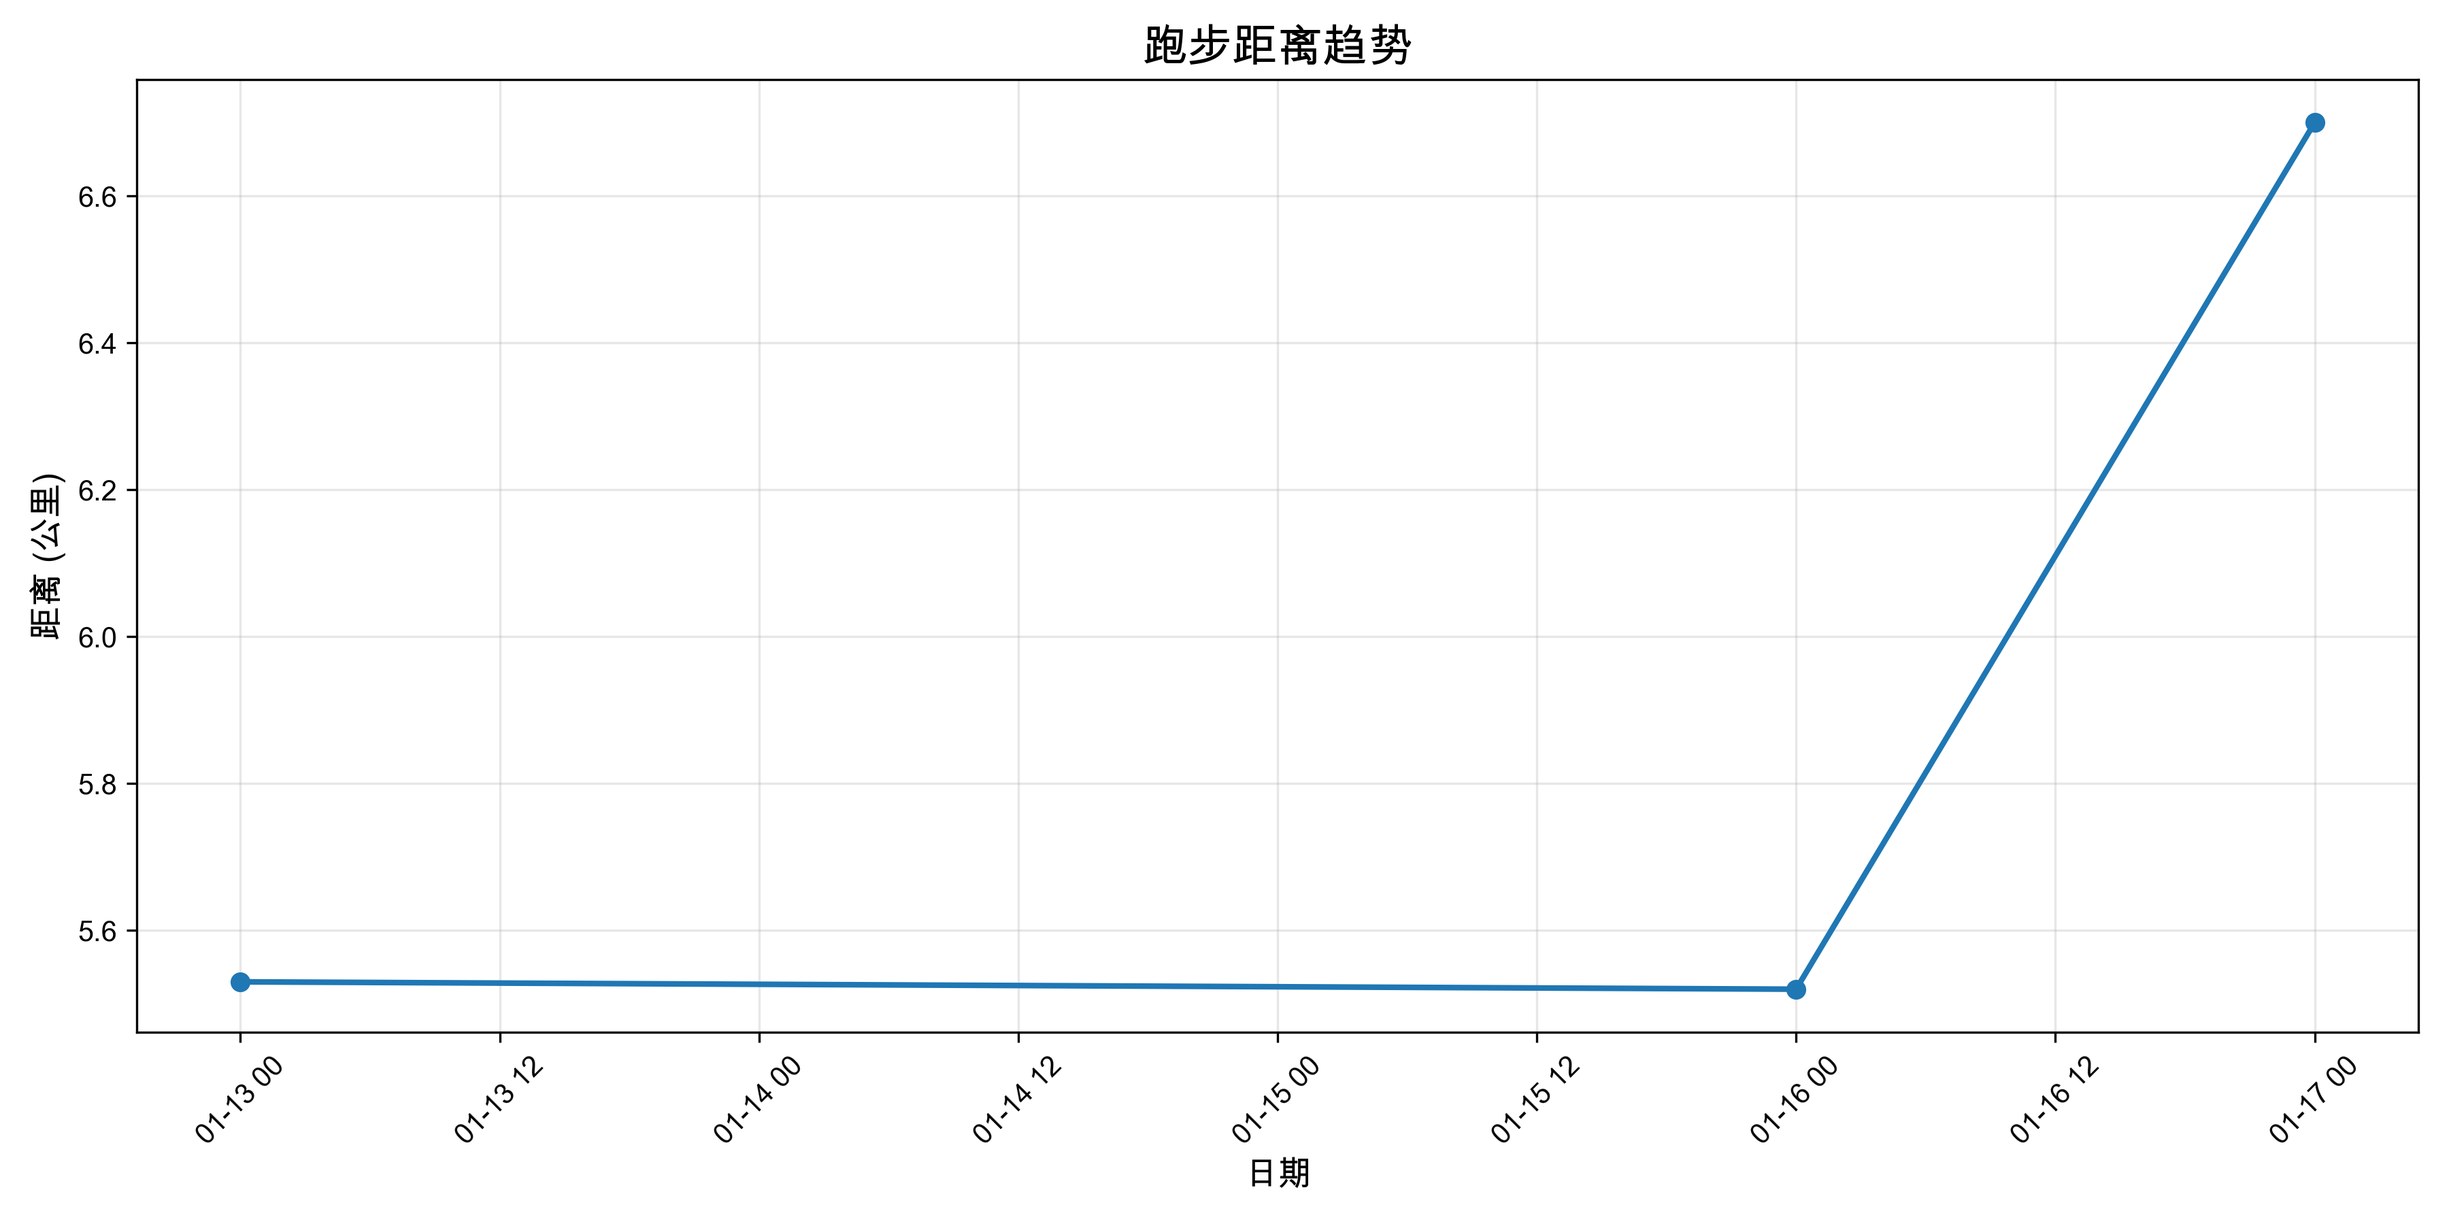
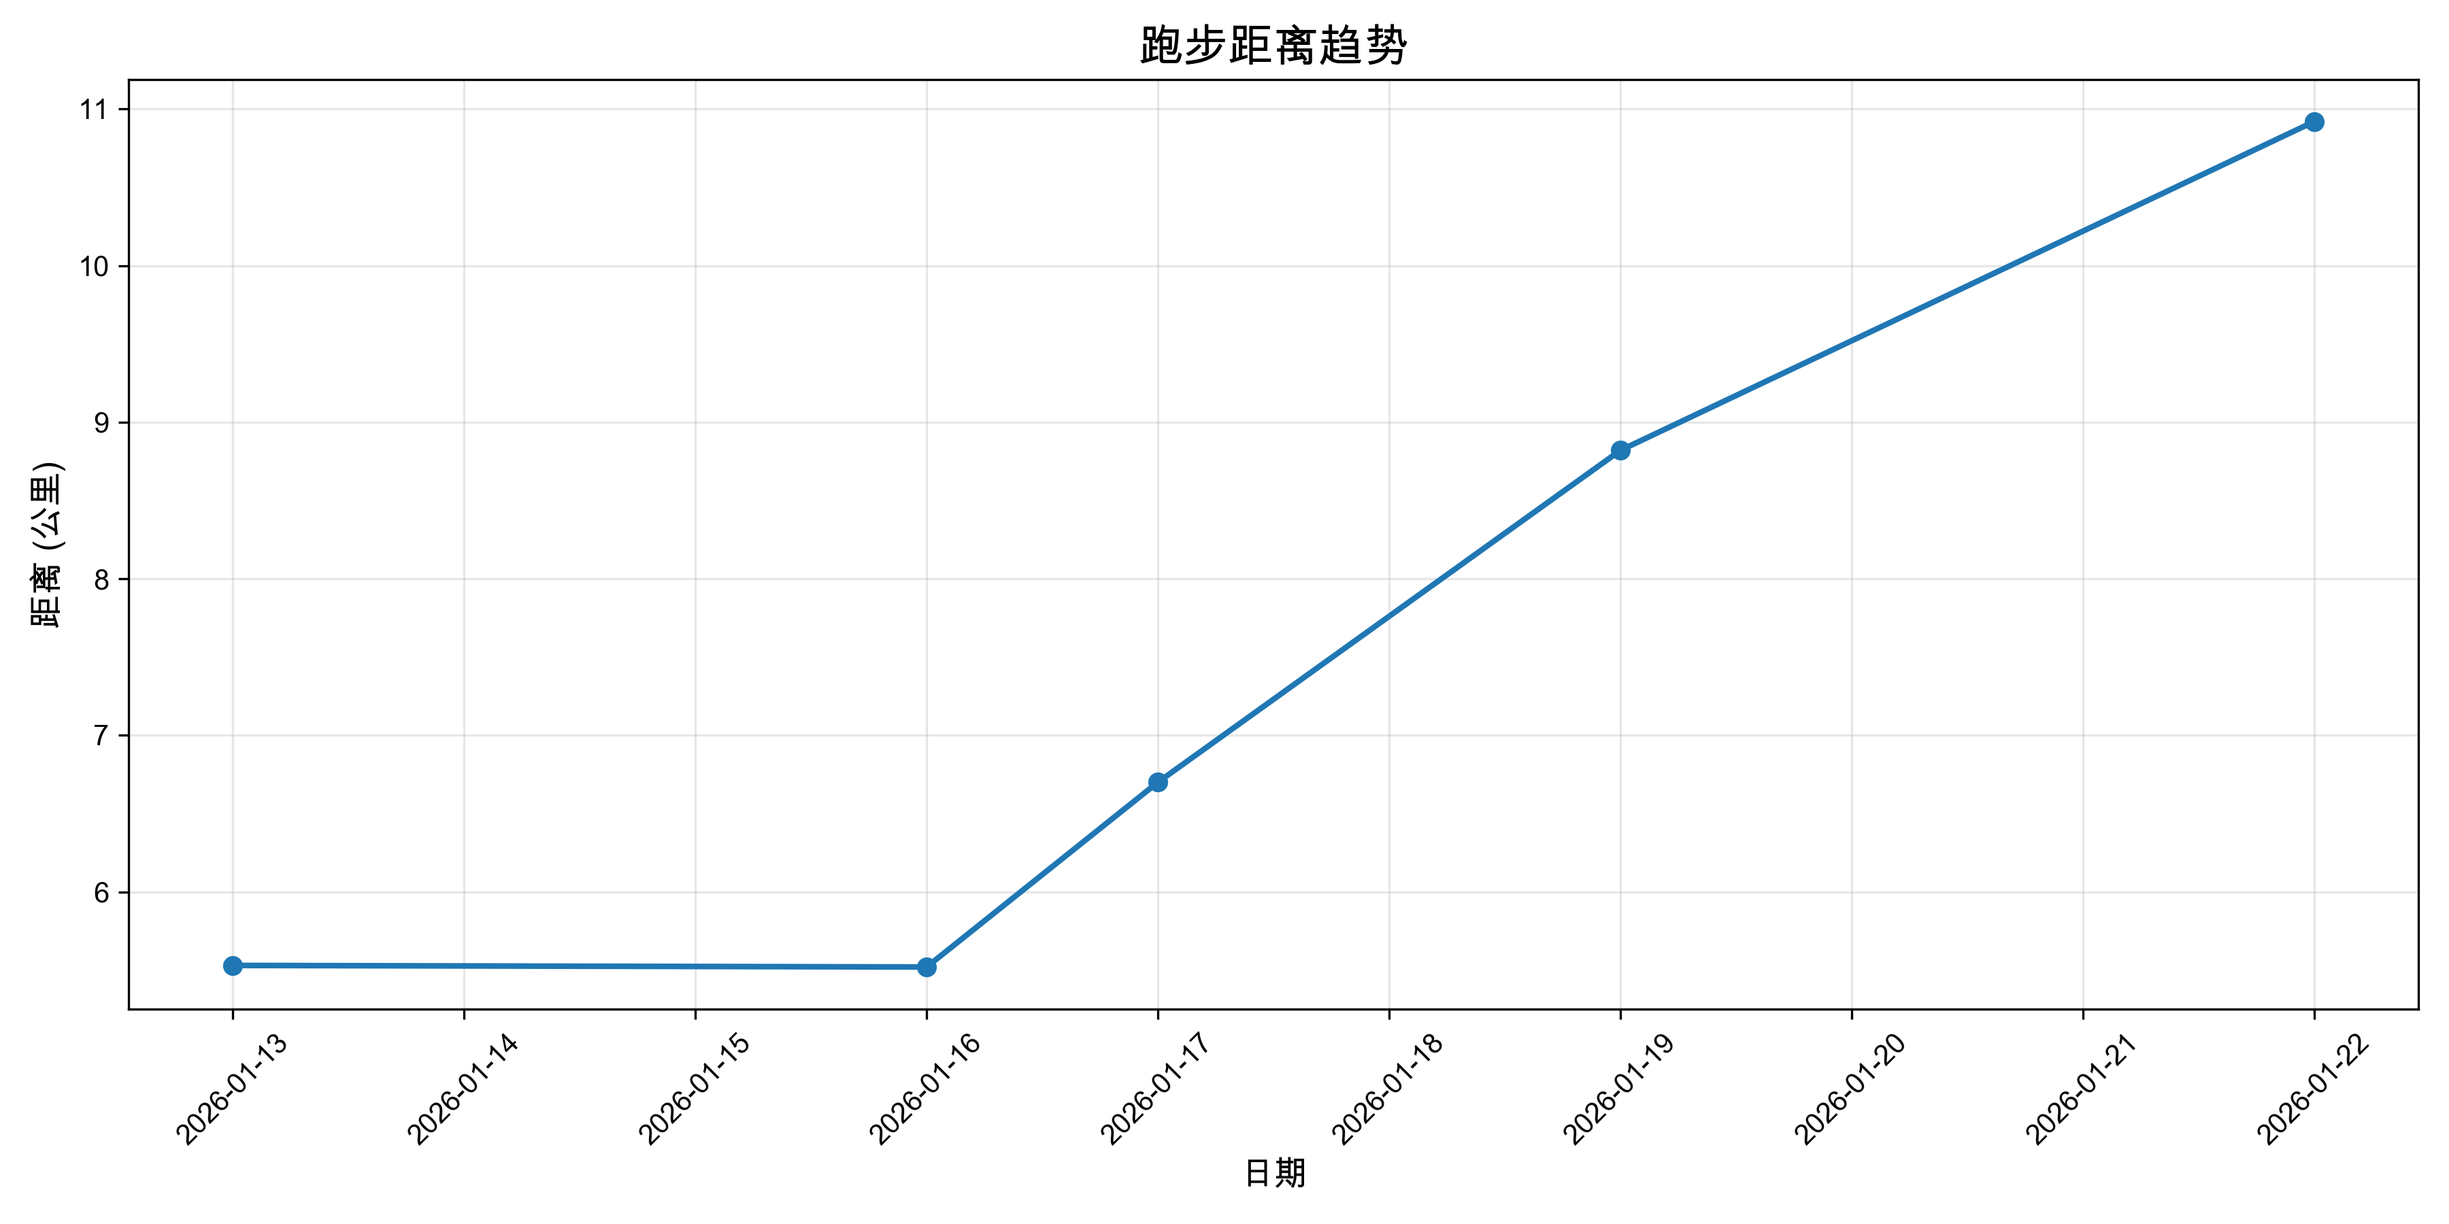
feat：更新1月22日跑步记录

diff --git a/training-plans/2026-01-plan.md b/training-plans/2026-01-plan.md
@@ -127,9 +127,10 @@
 - **详细数据**: 消耗657卡，步频159，总步数10704，步幅0.82m
 - **饮食**: 中午赛百味，跑步前1根香蕉和巧克力
 
-**阶段总结（截至 1/19）**:
-- **进步确认**: 平均心率从 173→158→155→153，已稳定进入目标区间（145-155）
-- **有效策略**: 放慢配速 + 更慢的前 1 公里热身，能显著降低心率漂移
+**阶段总结（截至 1/22）**:
+- **进步确认**: 跑步机平均心率从 173→158→155→153，已稳定进入目标区间（145-155）
+- **户外提醒**: 1/22 户外 10.92km 平均心率 160，说明户外需要更慢热身/更慢配速或跑走结合来守住区间
+- **有效策略**: 放慢配速 + 更慢的前 1-2 公里热身，能显著降低心率漂移
 - **本周重点**: 巩固“心率稳定”而不是追求配速；避免连续两天长距离
 - **执行要点**:
   - 跑步机建议坡度 1%（有余力再到 2%），以更贴近户外
@@ -145,15 +146,28 @@
 - **目标**: 维持恢复节奏，降低疲劳累积
 - **实际**: 待完成
 
-### 周四 1/22
+### 周四 1/22 ✅ 已完成
 - **计划**: 轻松跑 5km，心率145-155，配速7:20-7:40
-- **每公里目标**:
-  - 第1公里：7:50-8:10（热身，心率缓升）
-  - 第2公里：7:35-7:50
-  - 第3公里：7:25-7:40
-  - 第4公里：7:20-7:35
-  - 第5公里：7:15-7:30（心率不超 155 的前提下微提速）
-- **实际**: 待完成
+- **实际**: 户外 10.92km，81分03秒，配速7:25，心率160
+- **场地**: 户外（累计爬升43m）
+- **对比分析**:
+  - ✅ 距离大幅超额完成（10.92km vs 5km计划，+5.92km）
+  - ⚠ 平均心率偏高（160 vs 155上限，+5 bpm），户外强度更难控
+  - ⚠ 最大心率偏高（175），说明中后段存在提速或爬升带来的波动
+  - ✅ 配速处于当前“控心率区间”的合理范围（7:25）
+- **每公里实际配速**:
+  - 第1公里：7:29
+  - 第2公里：7:40
+  - 第3公里：7:28
+  - 第4公里：7:31
+  - 第5公里：7:31
+  - 第6公里：7:18
+  - 第7公里：7:11
+  - 第8公里：7:25
+  - 第9公里：7:22
+  - 第10公里：7:16
+- **改进建议**: 下次户外前2km再慢一点（7:50-8:20），中段以心率≤155为硬条件，必要时跑走结合
+- **详细数据**: 消耗813卡，步频163，总步数13258，步幅0.82m，最慢7:40，最快7:11
 
 ### 周五 1/23
 - **计划**: 休息日（可选：核心力量 15 分钟）
@@ -161,13 +175,12 @@
 - **实际**: 待完成
 
 ### 周六 1/24
-- **计划**: 长距离慢跑 9km，心率145-155，配速7:25-7:45
-- **每公里目标**:
-  - 第1公里：8:00-8:20
-  - 第2公里：7:45-8:00
-  - 第3-7公里：7:30-7:45（稳定有氧）
-  - 第8公里：7:25-7:40（心率≤155再微提速）
-  - 第9公里：7:25-7:35（保持轻松）
+- **计划**: 恢复跑 5-6km，心率140-150，配速7:45-8:20
+- **每公里目标**（6km版本）:
+  - 第1公里：8:20-8:40
+  - 第2公里：8:00-8:20
+  - 第3-5公里：7:45-8:10（全程能说话）
+  - 第6公里：7:45-8:00（心率不超 150）
 - **实际**: 待完成
 
 ### 周日 1/25
@@ -179,12 +192,12 @@
 - **实际**: 待完成
 
 **本周小结**:
-- 计划跑量: 18-19km
-- 实际跑量: 8.82km（进行中）
+- 计划跑量: 17-20km
+- 实际跑量: 19.74km（进行中）
 - 完成率: -（本周未结束）
-- **心率进步**: 从155继续降至153（降低2 bpm，累计从173降低20 bpm）
-- **距离突破**: 首次完成8km+长距离跑
-- **关键成果**: 心率控制持续优秀，热身策略显著改善
+- **距离突破**: 已完成 10km+（户外），耐力基础继续加厚
+- **心率策略**: 跑步机已稳定在145-155；户外仍需更慢热身与更稳中段，优先把平均心率压回≤155
+- **关键成果**: 长距离能力显著增强；节奏控制需要更“保守”以减少最大心率波动
 
 ---
 
@@ -312,22 +325,22 @@
 
 | 指标 | 计划 | 实际 | 完成率 |
 |------|------|------|--------|
-| 总跑量 | 60-80 km | 26.57 km | 33-44% |
-| 训练次数 | 12-15 次 | 4 次 | 27-33% |
+| 总跑量 | 60-80 km | 37.49 km | 47-62% |
+| 训练次数 | 12-15 次 | 5 次 | 33-42% |
 | 平均心率 | 145-155 bpm | 160 bpm | ⚠ 改善中 |
-| 平均配速 | 6:15-6:45 | 7:20 | 为控心率放慢 |
+| 平均配速 | 6:15-6:45 | 7:21 | 为控心率放慢 |
 | 体重 | 79-80 kg | 81 kg | - |
 
 ### 心率达标率
-- 达标次数: 2 / 4（1/17心率155，1/19心率153均达标）
-- 达标率: 50%
-- 说明: 1/13心率173偏高，1/16心率158接近目标，1/17心率155达标，1/19心率153达标
-- **趋势**: 心率从173→158→155→153，持续改善，已稳定在目标区间内
+- 达标次数: 2 / 5（1/17心率155，1/19心率153达标）
+- 达标率: 40%
+- 说明: 1/13心率173偏高，1/16心率158接近目标，1/17心率155达标，1/19心率153达标，1/22户外心率160偏高
+- **趋势**: 跑步机已稳定进入目标区间；户外仍需把热身与中段节奏再放慢
 
 ### 配速达标率
-- 达标次数: 1 / 2
-- 达标率: 50%
-- 说明: 1/13配速6:29达标，1/16配速7:22为控制心率主动放慢，策略正确
+- 达标次数: -（以心率为准）
+- 达标率: -（以心率为准）
+- 说明: 当前阶段配速不作为硬指标，配速的唯一目标是服务于“心率不超区间”
 
 ---
 

diff --git a/README.md b/README.md
@@ -31,7 +31,7 @@
 ### 📈 训练建议
 - [训练建议归档](docs/training-advice-index.md) - 所有训练建议索引
 - [2026-01 训练建议（按月归档）](docs/training-advice-2026-01.md) - 最新建议（1月）
-  - 快速跳转：[1/13](docs/training-advice-2026-01.md#2026-01-13)｜[1/16](docs/training-advice-2026-01.md#2026-01-16)｜[1/19](docs/training-advice-2026-01.md#2026-01-19)
+  - 快速跳转：[1/13](docs/training-advice-2026-01.md#2026-01-13)｜[1/16](docs/training-advice-2026-01.md#2026-01-16)｜[1/19](docs/training-advice-2026-01.md#2026-01-19)｜[1/22](docs/training-advice-2026-01.md#2026-01-22)
 
 ### 📊 数据图表
 - [距离趋势图](output/distance_trend.png) - 跑步距离变化
@@ -72,7 +72,7 @@ my-running-practice/
     ├── GUIDE.md             # 使用指南
     ├── WORKFLOW.md          # 工作流程图
     ├── training-advice-index.md           # 训练建议索引
-    └── training-advice-2026-01-13.md      # 训练建议
+    └── training-advice-2026-01.md         # 训练建议（月度归档）
 ```
 
 ## 本月训练计划概览
@@ -83,27 +83,38 @@ my-running-practice/
 
 | 指标 | 目标 | 当前进度 |
 |------|------|----------|
-| 总跑量 | 60-80 km | 11.05 km (14%) |
-| 训练次数 | 12-15 次 | 2 次 (15%) |
-| 心率控制 | 145-155 bpm | 166 bpm ❌ |
-| 配速范围 | 6:15-6:45 /km | 6:56 ✅ |
+| 总跑量 | 60-80 km | 37.49 km (47-62%) |
+| 训练次数 | 12-15 次 | 5 次 (33-42%) |
+| 心率控制 | 145-155 bpm | 160 bpm ⚠ |
+| 配速范围 | 7:15-7:50 /km | 7:21（按心率策略） |
 | 体重目标 | 79-80 kg | 81 kg |
 
-### 📅 本周计划（第1周）
+### 📅 本周计划（第2周）
 
 | 日期 | 计划 | 状态 | 实际完成 |
 |------|------|------|----------|
-| 周二 1/13 | 5km 轻松跑 | ✅ 已完成 | 5.53km，心率173（偏高） |
-| 周四 1/15 | 5km 轻松跑 | ❌ 未完成 | 未跑步，晚上吃了肯德基 |
-| 周五 1/16 | - | ✅ 补跑 | 5.52km，心率158（户外，进步明显） |
-| 周六 1/17 | 6km 轻松跑 | ⏳ 待完成 | - |
-| 周一 1/19 | 8km 长距离 | ⏳ 待完成 | - |
+| 周一 1/19 | 8km 长距离 | ✅ 已完成 | 8.82km，心率153 ✅ |
+| 周二 1/20 | 休息 | ✅ | - |
+| 周三 1/21 | 休息 | ✅ | - |
+| 周四 1/22 | 5km 轻松跑 | ✅ 已完成 | 10.92km，心率160 ⚠（户外） |
+| 周五 1/23 | 休息 | ⏳ 待完成 | - |
+| 周六 1/24 | 5-6km 恢复跑 | ⏳ 待完成 | - |
+| 周日 1/25 | 4-5km 恢复跑 | ⏳ 待完成 | - |
 
-**本周重点**: 控制心率在145-155以内，配速6:15-6:45
+**本周重点**: 户外更慢热身与更稳中段，优先把平均心率压回≤155
 
 👉 [查看完整训练计划](training-plans/2026-01-plan.md)
 
 ## 最新动态
+
+### 2026-01-22 户外 10km+ 里程碑 & 心率仍需保守策略
+- 🏃 **跑步记录**: 户外 10.92km，81分03秒，配速7:25，心率160，最大心率175
+- 📊 **关键判断**:
+  - ✅ 首次完成 10km+（当前阶段关键耐力里程碑）
+  - ⚠ 户外心率明显更难控，需要更慢热身/更慢配速或跑走结合
+- 📝 [查看详细记录](data/2026/01-January.md)
+- 📋 [查看训练计划](training-plans/2026-01-plan.md)
+- 💡 [查看训练建议](docs/training-advice-2026-01.md#2026-01-22)
 
 ### 2026-01-16 跑步机训练 & 心率控制进步明显
 - 🏃 **跑步记录**: 跑步机 5.52km，40分43秒，配速7:22，心率158
@@ -115,7 +126,7 @@ my-running-practice/
 - 🎯 **关键突破**: 心率控制取得重大进步，证明放慢速度策略有效
 - 📝 [查看详细记录](data/2026/01-January.md)
 - 📋 [查看训练计划](training-plans/2026-01-plan.md)
-- 💡 [查看训练建议](docs/training-advice-2026-01-16.md)
+- 💡 [查看训练建议](docs/training-advice-2026-01.md#2026-01-16)
 
 ### 2026-01-13 首次跑步 & 训练计划启动
 - 🏃 **跑步记录**: 跑步机 5.53km，35分56秒，配速6:29，心率173
@@ -124,7 +135,7 @@ my-running-practice/
   - ❌ 配速过快（6:29 vs 7:30-8:00目标）
   - ✅ 距离达标
 - 🎯 **下次改进**: 必须放慢速度，心率控制优先
-- 💡 [查看训练建议](docs/training-advice-2026-01-13.md)
+- 💡 [查看训练建议](docs/training-advice-2026-01.md#2026-01-13)
 
 ## 记录的数据指标
 
@@ -219,7 +230,8 @@ python3 scripts/weight_analysis.py
 - **2026-01-22**:
   - 周更训练计划：更新并重排第2-4周（周一到周日），避免连续长距离
   - 补齐训练日每公里目标（前慢热身→中段稳定→末段控制）
-  - 新增阶段总结与执行要点（截至1/19），并据此调整后续训练安排
+  - 新增阶段总结与执行要点（截至1/22），并据此调整后续训练安排
+  - 更新 1/22 户外训练记录与训练建议（10.92km，配速7:25，心率160）
   - 添加 TRAE 项目规则文件（.trae/rules/project_rules.md）
 
 - **2026-01-17**:

diff --git a/docs/training-advice-2026-01.md b/docs/training-advice-2026-01.md
@@ -4,23 +4,24 @@
 
 ## 本月概览
 
-- **训练次数**: 4 次
-- **总跑量**: 26.57 km
-- **平均配速**: 7:18 /km
+- **训练次数**: 5 次
+- **总跑量**: 37.49 km
+- **平均配速**: 7:21 /km
 - **平均心率**: 160 bpm
 - **阶段判断**: 有氧基础建立期，当前最重要的成果是“心率稳定下来了”
 
 ## 核心结论（本月最重要的 3 件事）
 
-1. **心率控制已进入正轨**：平均心率从 173 → 158 → 155 → 153，趋势非常清晰
+1. **心率控制已进入正轨**：跑步机训练平均心率从 173 → 158 → 155 → 153，趋势非常清晰
 2. **热身节奏决定后半程心率**：前 1km 放慢能显著减少心率漂移
-3. **当前目标不是提配速**：先把“145-155 心率下能稳定完成 8-10km”固化下来，配速自然会逐步回升
+3. **户外强度更高**：1/22 户外 10.92km 平均心率到 160，说明需要更慢热身/更慢配速或跑走结合来守住区间
 
 ## 快速跳转
 
 - [2026-01-13](#2026-01-13)
 - [2026-01-16](#2026-01-16)
 - [2026-01-19](#2026-01-19)
+- [2026-01-22](#2026-01-22)
 
 ## 本月执行口径（用于后续持续更新）
 
@@ -228,3 +229,48 @@
 - **2026年1-2月**: 把“心率≤155完成 8-10km”固化为常态，周跑量稳定到 20-30km
 - **2026年3-6月**: 在心率稳定前提下逐步提速（每 2-3 周小幅加快），加入轻量节奏/变速元素
 - **2026年下半年**: 以专项训练把配速拉到 5:40，同时保持心率不过线
+
+## 2026-01-22
+
+### 今日训练数据分析
+
+#### 基本数据
+- **距离**: 10.92 km
+- **时长**: 1小时21分03秒
+- **配速**: 7:25 分/公里
+- **消耗**: 813 大卡
+- **场地**: 户外（累计爬升 43m）
+
+#### 心率数据
+- **平均心率**: 160 bpm（接近上限）
+- **最大心率**: 175 bpm（波动偏大）
+- **最小心率**: 96 bpm
+
+#### 步态数据
+- **步频**: 163 步/分钟
+- **步幅**: 0.82 米
+- **总步数**: 13258 步
+
+#### 每公里配速
+- 1km 7:29，2km 7:40，3km 7:28，4km 7:31，5km 7:31，6km 7:18，7km 7:11，8km 7:25，9km 7:22，10km 7:16
+
+---
+
+### 关键判断
+
+- **距离达成了“10km+”里程碑**：这是当前阶段非常关键的耐力建设信号
+- **户外心率明显更难控**：在 7:25 的配速下平均心率到 160，说明户外的坡度/风/路面/温度把强度抬高了
+- **配速有后程加速倾向**：第 6-7km 有明显提速（7:18 → 7:11），对应最大心率 175 的波动风险更大
+
+### 训练建议（下一次怎么跑，才能把心率压回 145-155）
+
+- **目标不变**：下次轻松跑/长距离把平均心率压在 **145-155**（优先 150 左右），配速完全服务于心率
+- **更慢热身**：前 2km 直接按 **7:50-8:20** 起跑，让心率先“稳住再进区间”
+- **中段稳住**：3-8km 以 **7:35-7:55** 为主（若心率>155 立刻降速 10-20 秒/公里）
+- **末段不抢速度**：最后 2km 以“心率不超 155”为硬条件，宁可慢一点也不要冲
+- **必要时跑走结合**：一旦心率连续 2-3 分钟 >155，直接 **跑 3 分钟 + 走 1 分钟**，直到心率回落
+
+### 户外与跑步机的转换规则（避免“户外一跑就超心率”）
+
+- 户外同配速心率更高是常态：把户外的目标配速整体比跑步机 **慢 10-30 秒/公里**
+- 户外尽量选平路、避开大风/暴晒时段；爬升日把目标心率上限再下调 3-5 bpm

diff --git a/data/2026/01-January.md b/data/2026/01-January.md
@@ -16,10 +16,10 @@
 
 ## 本月统计
 
-- 实际跑量：26.57 公里
-- 平均配速：7:18 分/公里
+- 实际跑量：37.49 公里
+- 平均配速：7:21 分/公里
 - 平均心率：160 bpm
-- 训练次数：4 次
+- 训练次数：5 次
 
 ---
 
@@ -32,6 +32,7 @@
 | 2026-01-16 | 5.52 | 40.72 | 7:22 | 158 | 166 | - | 跑步机 | - | 中午吃了赛百味三明治,消耗439卡,步频155,总步数6349,最慢配速7:39,最快配速6:49,效率105,步幅0.87m |
 | 2026-01-17 | 6.7 | 50.28 | 7:30 | 155 | 166 | - | 跑步机 | - | 消耗518卡,步频160,总步数8073,最高配速7:14,最低配速7:49,步幅0.83m,每公里配速:1km-7:14,2km-7:26,3km-7:21,4km-7:43,5km-7:29,6km-7:49 |
 | 2026-01-19 | 8.82 | 67.3 | 7:37 | 153 | 165 | - | 跑步机 | - | 消耗657卡,步频159,总步数10704,最慢配速7:49,最快配速7:27,步幅0.82m,每公里配速:1km-7:32,2km-7:43,3km-7:31,4km-7:42,5km-7:42,6km-7:49,7km-7:40,8km-7:27,中午吃了赛百味,跑步前1根香蕉和巧克力 |
+| 2026-01-22 | 10.92 | 81.05 | 7:25 | 160 | 175 | - | 户外 | - | 消耗813卡,步频163,总步数13258,累计爬升43m,最慢配速7:40,最快配速7:11,最小心率96,每公里配速:1km-7:29,2km-7:40,3km-7:28,4km-7:31,5km-7:31,6km-7:18,7km-7:11,8km-7:25,9km-7:22,10km-7:16 |
 
 ---
 
